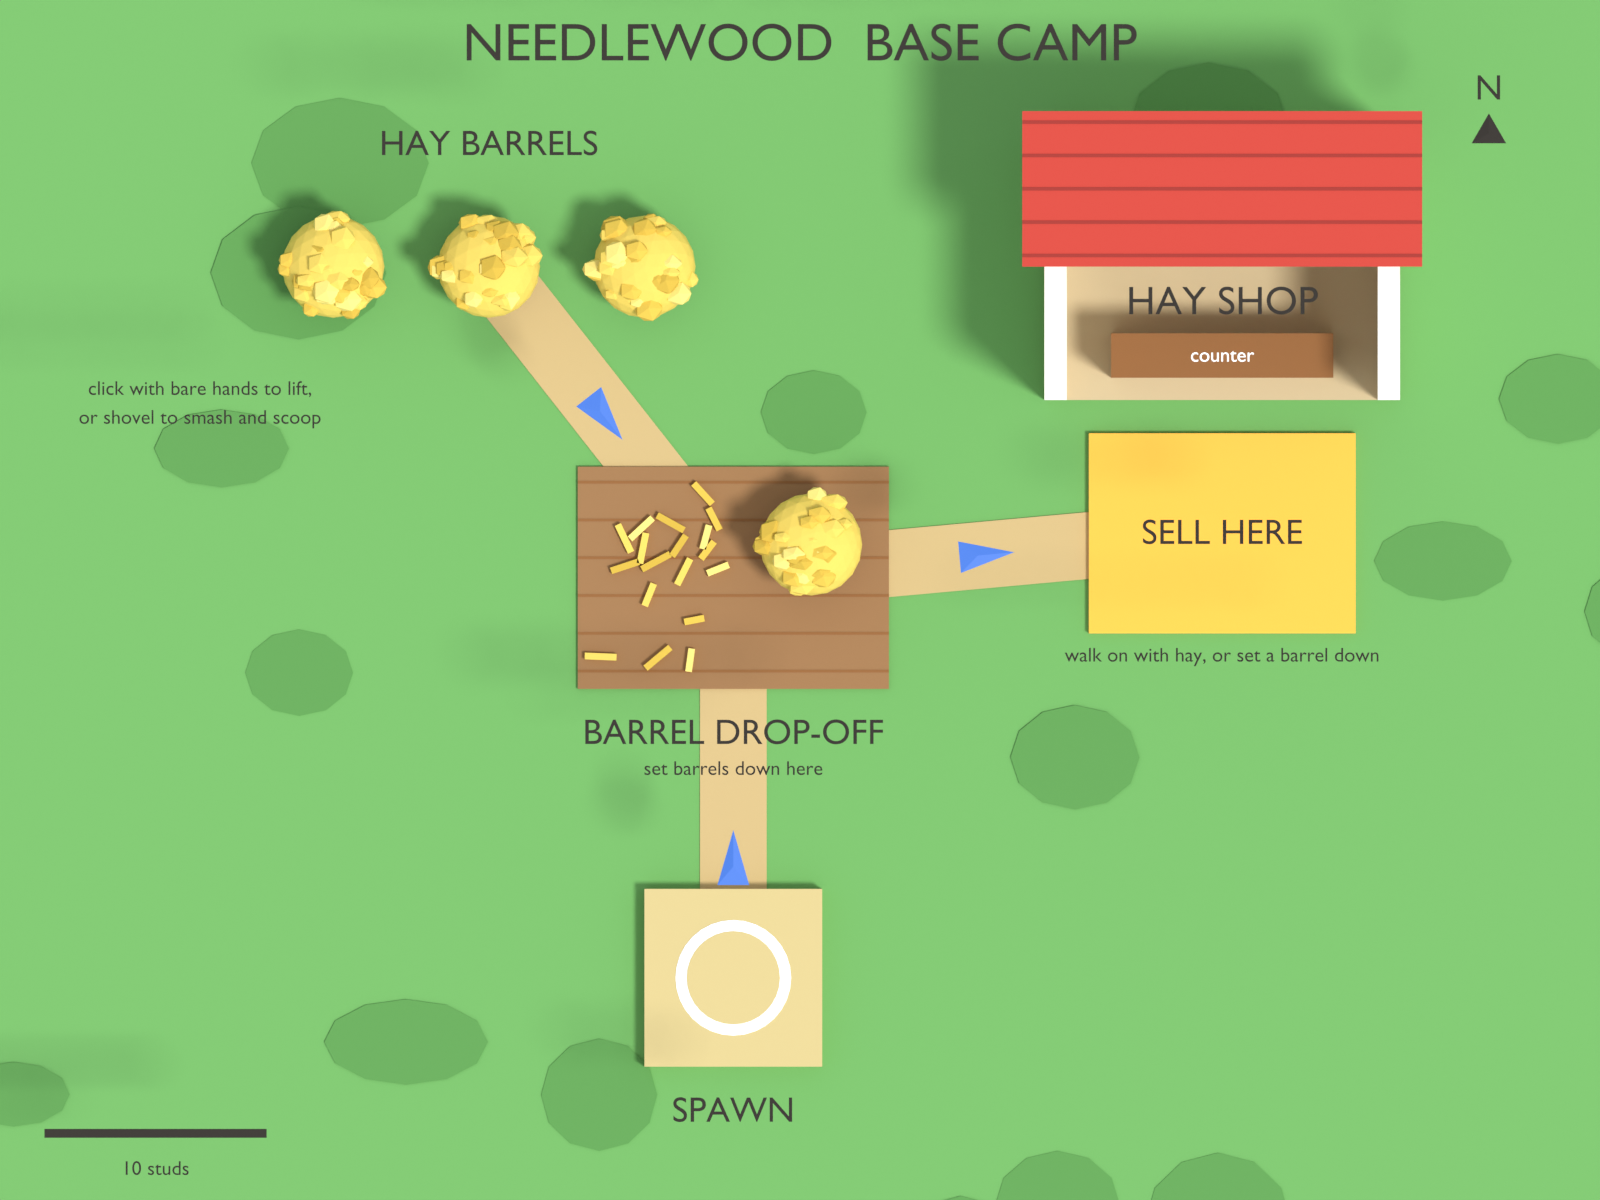
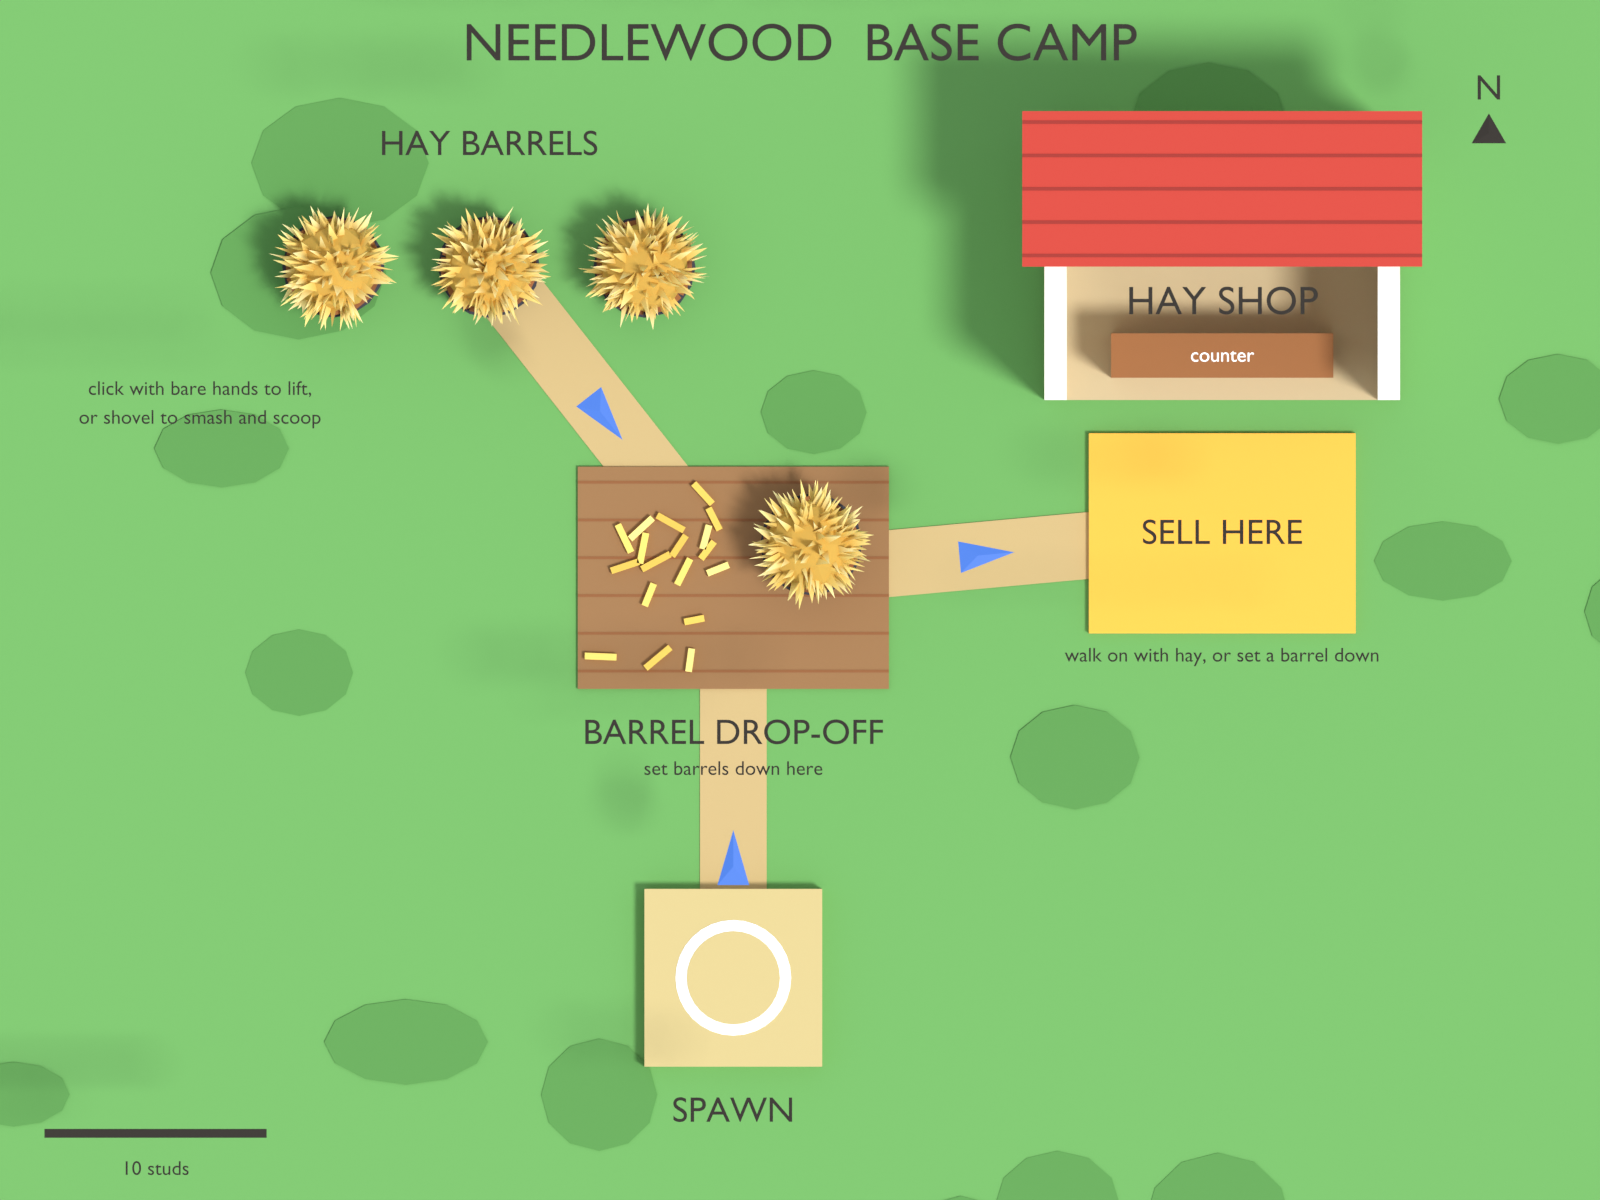
Mockups in the barrel's low-poly style; add docs/STYLE.md
Spiky vertex-colored straw clumps with dark roots and light tips, stave tubs
with varied plank tones and iron bands, shared palette in mockups/mock.py.

Claude-Session: https://claude.ai/code/session_01EoRY5A5GgDCDJNNukCEUDX

Changed region(s): [[0.1562, 0.1542, 0.4375, 0.2775], [0.4688, 0.4008, 0.5625, 0.4933]]

diff --git a/blender/mockups/mock.py b/blender/mockups/mock.py
@@ -88,41 +88,119 @@ def label(text, loc, size, material, rot=(0, 0, 0), align="CENTER", bold=True):
     return o
 
 
-def hay_heap(name, center, radius, height, colors, tufts=60, seed=1, straws=40):
-    """Lumpy hay mound: a squashed blob plus tufts and loose straws on top."""
+# House palette (sRGB 0-255), shared with blender/props/hay_barrel.py. See style/STYLE.md.
+HAY_PALETTE = {
+    "root": (199, 158, 69),
+    "mids": [(245, 214, 107), (235, 196, 87), (252, 227, 133), (224, 184, 79)],
+    "tip": (255, 242, 179),
+}
+WOOD_TONES = [(140, 87, 46), (153, 97, 51), (128, 77, 41)]
+WOOD_INSIDE = (77, 46, 26)
+IRON = (61, 61, 69)
+
+
+def palette(mids, root=None, tip=None):
+    """Hay palette from a few mid shades: darker roots, lighter tips."""
+    root = root or tuple(int(c * 0.78) for c in mids[0])
+    tip = tip or tuple(int(c + (255 - c) * 0.45) for c in mids[-1])
+    return {"root": root, "mids": list(mids), "tip": tip}
+
+
+_vcol = None
+
+
+def vcol_mat():
+    """Matte material that takes its color from the mesh's 'Col' color attribute."""
+    global _vcol
+    if _vcol:
+        return _vcol
+    m = bpy.data.materials.new("vertex_color")
+    m.use_nodes = True
+    nt = m.node_tree
+    bsdf = nt.nodes.get("Principled BSDF")
+    bsdf.inputs["Roughness"].default_value = 0.9
+    attr = nt.nodes.new("ShaderNodeVertexColor")
+    attr.layer_name = "Col"
+    nt.links.new(attr.outputs["Color"], bsdf.inputs["Base Color"])
+    _vcol = m
+    return m
+
+
+def spikes(name, items):
+    """One mesh of straw spikes. items: (base, direction, length, radius, root_rgb, tip_rgb, twist)."""
+    import bmesh
+    from mathutils import Vector
+    bm = bmesh.new()
+    col = bm.loops.layers.float_color.new("Col")
+    for base, direction, length, radius, root, tip, twist in items:
+        d = Vector(direction).normalized()
+        side = d.orthogonal().normalized()
+        side.rotate(__import__("mathutils").Quaternion(d, twist))
+        other = d.cross(side)
+        b = Vector(base)
+        ring = [bm.verts.new(b + (side * math.cos(a) + other * math.sin(a) * 0.45) * radius)
+                for a in (0, math.tau / 3, 2 * math.tau / 3)]
+        apex = bm.verts.new(b + d * length)
+        rc, tc = (*rgb(*root), 1.0), (*rgb(*tip), 1.0)
+        for i in range(3):
+            f = bm.faces.new((ring[i], ring[(i + 1) % 3], apex))
+            for loop in f.loops:
+                loop[col] = tc if loop.vert is apex else rc
+    mesh = bpy.data.meshes.new(name)
+    bm.to_mesh(mesh)
+    bm.free()
+    o = bpy.data.objects.new(name, mesh)
+    o.data.materials.append(vcol_mat())
+    bpy.context.collection.objects.link(o)
+    return o
+
+
+def hay_heap(name, center, radius, height, pal=None, tufts=160, seed=1, emit=0.0):
+    """Spiky low-poly hay mound in the barrel's style: a dark-rooted core covered in
+    straw spikes that run from a darker root to a light tip."""
     import random
     rng = random.Random(seed)
-    objs = []
+    pal = pal or HAY_PALETTE
     cx, cy, cz = center
-    objs.append(sphere(name + "_core", radius, (cx, cy, cz), colors[0], scale=(1, 1, height / radius), subdiv=3))
+    core = sphere(name + "_core", radius * 0.92, (cx, cy, cz),
+                  mat(name + "_root", rgb(*pal["root"]), 0.95, emit=emit),
+                  scale=(1, 1, height / radius * 0.92), subdiv=2)
+    items = []
     for i in range(tufts):
+        # Point on the upper part of the mound, pointing outward and a bit up.
         a = rng.uniform(0, math.tau)
-        d = math.sqrt(rng.random()) * radius * 0.95
-        h = height * (1 - (d / radius) ** 2) ** 0.5
-        r = rng.uniform(0.18, 0.32) * radius
-        objs.append(sphere(f"{name}_tuft{i}", r,
-                           (cx + math.cos(a) * d, cy + math.sin(a) * d, cz + h * rng.uniform(0.75, 1.0)),
-                           colors[i % len(colors)], scale=(1, rng.uniform(0.6, 1), rng.uniform(0.5, 0.8)),
-                           subdiv=1))
-    for i in range(straws):
-        a = rng.uniform(0, math.tau)
-        d = math.sqrt(rng.random()) * radius
-        h = height * (1 - min(d / radius, 1) ** 2) ** 0.5
-        length = rng.uniform(0.35, 0.7) * radius
-        o = cylinder(f"{name}_straw{i}", radius * 0.025, length,
-                     (cx + math.cos(a) * d, cy + math.sin(a) * d, cz + h * 0.9),
-                     colors[(i + 1) % len(colors)], verts=5,
-                     rot=(rng.uniform(0.6, 1.4), 0, a))
-        objs.append(o)
-    return objs
+        el = math.asin(rng.uniform(-0.15, 1.0))
+        nx, ny, nz = math.cos(el) * math.cos(a), math.cos(el) * math.sin(a), math.sin(el)
+        base = (cx + nx * radius * 0.8, cy + ny * radius * 0.8, cz + nz * height * 0.8)
+        direction = (nx + rng.uniform(-0.35, 0.35), ny + rng.uniform(-0.35, 0.35),
+                     nz * (height / radius) + rng.uniform(0.0, 0.5))
+        mid = pal["mids"][i % len(pal["mids"])]
+        tip = tuple(int((m + t) / 2) for m, t in zip(mid, pal["tip"])) if i % 3 else pal["tip"]
+        root = tuple(int((m + r) / 2) for m, r in zip(mid, pal["root"]))
+        items.append((base, direction, rng.uniform(0.35, 0.6) * radius, rng.uniform(0.09, 0.16) * radius,
+                      root, tip, rng.uniform(0, math.tau)))
+    return [core, spikes(name + "_straw", items)]
 
 
-def tub(name, center, radius, height, wood, hoop):
-    """Short wooden tub with two metal hoops, like the game's hay barrel."""
+def tub(name, center, radius, height, staves=14, seed=0):
+    """Wooden stave tub with two chunky iron bands, like the game's hay barrel."""
+    import random
+    rng = random.Random(seed)
     cx, cy, cz = center
-    objs = [cylinder(name + "_body", radius, height, (cx, cy, cz + height / 2), wood, verts=16)]
-    for h in (0.2, 0.8):
-        objs.append(cylinder(name + "_hoop", radius * 1.04, height * 0.1, (cx, cy, cz + height * h), hoop, verts=16))
+    objs = []
+    width = math.tau * radius / staves * 0.94
+    for i in range(staves):
+        a = i * math.tau / staves
+        tone = WOOD_TONES[rng.randrange(len(WOOD_TONES))]
+        o = box(f"{name}_stave{i}", (width, height * rng.uniform(0.98, 1.03), radius * 0.14),
+                (cx + math.cos(a) * radius, cy + math.sin(a) * radius, cz + height / 2),
+                mat("wood" + str(tone), rgb(*tone), 0.85), rot=(0, 0, a + math.pi / 2))
+        objs.append(o)
+    objs.append(cylinder(name + "_inside", radius * 0.95, height * 0.96, (cx, cy, cz + height / 2),
+                         mat("wood_inside", rgb(*WOOD_INSIDE), 0.9), verts=16))
+    iron = mat("iron", rgb(*IRON), 0.45, 0.85)
+    for h in (0.18, 0.82):
+        objs.append(cylinder(name + "_band", radius * 1.15, height * 0.12, (cx, cy, cz + height * h), iron, verts=16))
     return objs
 
 

diff --git a/blender/mockups/map.py b/blender/mockups/map.py
@@ -27,12 +27,11 @@ PLANKS = mock.mat("planks", rgb(150, 110, 70), 0.9)
 SHOP_FLOOR = mock.mat("shop_floor", rgb(200, 180, 140), 0.9)
 WALL = mock.mat("wall", rgb(244, 239, 224), 0.7)
 ROOF = mock.mat("roof", rgb(192, 57, 43), 0.8)
-COUNTER = mock.mat("counter", rgb(139, 90, 43), 0.8)
+COUNTER = mock.mat("counter", rgb(*mock.WOOD_TONES[1]), 0.8)
 SELL = mock.mat("sell", rgb(240, 173, 46), 0.4, emit=0.15)
-WOOD = mock.mat("wood", rgb(139, 90, 43), 0.8)
+WOOD = mock.mat("wood", rgb(*mock.WOOD_TONES[0]), 0.8)
 HOOP = mock.mat("hoop", rgb(70, 70, 76), 0.4, 0.8)
-HAY = [mock.mat(f"hay{i}", rgb(*c), 0.9) for i, c in enumerate(
-    [(232, 201, 90), (220, 184, 70), (244, 218, 120), (205, 170, 60)])]
+HAY = [mock.mat(f"hay{i}", rgb(*c), 0.9) for i, c in enumerate(mock.HAY_PALETTE["mids"])]
 INK = mock.mat("ink", rgb(40, 34, 28), 0.9)
 WHITE = mock.mat("white", rgb(255, 255, 255), 0.9)
 ARROW = mock.mat("arrow", rgb(60, 110, 200), 0.6)
@@ -65,15 +64,15 @@ inner = mock.cylinder("spawn_ring_in", 2.1, 1.1, rbx(0, 14, 0.5), SPAWN, verts=3
 # Three hay barrels in a row at z = -18.
 for i in range(3):
     x = -18 + i * 7
-    mock.tub(f"barrel{i}", rbx(x, -18, 0), 2.0, 2.4, WOOD, HOOP)
-    mock.hay_heap(f"barrelhay{i}", rbx(x, -18, 2.4), 2.3, 1.8, HAY, tufts=30, seed=i, straws=0)
+    mock.tub(f"barrel{i}", rbx(x, -18, 0), 2.0, 2.4, seed=i)
+    mock.hay_heap(f"barrelhay{i}", rbx(x, -18, 2.4), 2.2, 1.9, seed=i)
 
 # Barrel drop-off (14 x 10 at 0, -4) with plank lines and one set-down barrel.
 mock.box("dropoff", (14, 0.2, 10), rbx(0, -4, 0.1), PLANKS)
 for k in range(6):
     mock.box("plankline", (14, 0.22, 0.12), rbx(0, -8.3 + k * 1.7, 0.11), WOOD)
-mock.tub("dropbarrel", rbx(3.5, -5.5, 0.2), 2.0, 2.4, WOOD, HOOP)
-mock.hay_heap("drophay", rbx(3.5, -5.5, 2.6), 2.3, 1.6, HAY, tufts=25, seed=9, straws=0)
+mock.tub("dropbarrel", rbx(3.5, -5.5, 0.2), 2.0, 2.4, seed=5)
+mock.hay_heap("drophay", rbx(3.5, -5.5, 2.6), 2.2, 1.7, seed=9)
 for i in range(18):  # loose hay pieces from a smashed barrel
     x, z = rng.uniform(-6, 0), rng.uniform(-8, 0)
     o = mock.box(f"piece{i}", (rng.uniform(0.9, 1.5), 0.3, 0.3), rbx(x, z, 0.35), HAY[i % 4])

diff --git a/blender/mockups/hay_types.py b/blender/mockups/hay_types.py
@@ -20,7 +20,7 @@ bpy.ops.wm.read_factory_settings(use_empty=True)
 
 # name, needle, sorted value, hay colors, needle color, needle glow, extra
 HAY_TYPES = [
-    ("Meadow", "Steel", 100, [(232, 201, 90), (220, 184, 70), (244, 218, 120)], (170, 175, 182), 0, None),
+    ("Meadow", "Steel", 100, None, (170, 175, 182), 0, None),
     ("Pine Forest", "Pine", 110, [(196, 186, 92), (170, 160, 78), (120, 140, 70)], (46, 100, 52), 0, "pinecone"),
     ("Desert", "Sand", 140, [(236, 214, 160), (222, 196, 136), (246, 230, 186)], (214, 170, 96), 0, None),
     ("Snow Peak", "Ice", 160, [(226, 214, 168), (210, 200, 160), (245, 248, 252)], (150, 210, 245), 1.5, "snow"),
@@ -32,8 +32,6 @@ HAY_TYPES = [
     ("Star Hay", "Cosmic", 5000, [(48, 40, 110), (70, 50, 140), (30, 28, 80)], (255, 230, 140), 6.0, "stars"),
 ]
 
-WOOD = mock.mat("wood", rgb(139, 90, 43), 0.8)
-HOOP = mock.mat("hoop", rgb(70, 70, 76), 0.4, 0.8)
 FLOOR = mock.mat("floor", rgb(214, 206, 188), 1.0)
 TILE = mock.mat("tile", rgb(238, 232, 218), 0.9)
 INK = mock.mat("ink", rgb(40, 34, 28), 0.9)
@@ -55,11 +53,11 @@ for idx, (name, needle_name, value, cols, ncol, glow, extra) in enumerate(HAY_TY
     cx = (col - 2) * SPACING_X
     cy = row * SPACING_Y
     rng = random.Random(idx + 11)
-    hay = [mock.mat(f"{name}{i}", rgb(*c), 0.9, emit=(0.4 if extra == "stars" else 0.0)) for i, c in enumerate(cols)]
+    pal = mock.HAY_PALETTE if cols is None else mock.palette(cols)
 
     mock.box("tile", (7.6, 0.2, 8.6), (cx, cy - 0.6, 0.1), TILE)
-    mock.tub(name + "_tub", (cx, cy, 0.2), 1.9, 2.2, WOOD, HOOP)
-    mock.hay_heap(name, (cx, cy, 2.4), 2.15, 1.7, hay, tufts=40, seed=idx, straws=30)
+    mock.tub(name + "_tub", (cx, cy, 0.2), 1.9, 2.2, seed=idx)
+    mock.hay_heap(name, (cx, cy, 2.4), 2.05, 1.8, pal, seed=idx, emit=(0.4 if extra == "stars" else 0.0))
     for k in range(3):
         a = rng.uniform(-2.2, -0.9)
         needle(cx + math.cos(a) * 1.4, cy + math.sin(a) * 1.1, 3.3 + rng.uniform(-0.2, 0.4), ncol, glow, rng)

diff --git a/blender/mockups/tools.py b/blender/mockups/tools.py
@@ -18,17 +18,15 @@ from mock import rgb  # noqa: E402
 
 bpy.ops.wm.read_factory_settings(use_empty=True)
 
-WOOD = mock.mat("wood", rgb(139, 90, 43), 0.7)
+WOOD = mock.mat("wood", rgb(*mock.WOOD_TONES[1]), 0.7)
 STEEL = mock.mat("steel", rgb(150, 158, 166), 0.3, 0.9)
-HOOP = mock.mat("hoop", rgb(70, 70, 76), 0.4, 0.8)
 SKIN = mock.mat("skin", rgb(234, 184, 146), 0.6)
 SLEEVE = mock.mat("sleeve", rgb(52, 118, 196), 0.7)
 FLOOR = mock.mat("floor", rgb(106, 166, 90), 1.0)
 PLINTH = mock.mat("plinth", rgb(225, 215, 195), 0.8)
 INK = mock.mat("ink", rgb(40, 34, 28), 0.9)
 SUB = mock.mat("sub", rgb(90, 80, 70), 0.9)
-HAY = [mock.mat(f"hay{i}", rgb(*c), 0.9) for i, c in enumerate(
-    [(232, 201, 90), (220, 184, 70), (244, 218, 120), (205, 170, 60)])]
+HAY = [mock.mat(f"hay{i}", rgb(*c), 0.9) for i, c in enumerate(mock.HAY_PALETTE["mids"])]
 rng = random.Random(4)
 
 mock.box("floor", (80, 1, 40), (0, 0, -0.5), FLOOR)
@@ -56,8 +54,8 @@ def titles(x, name, lines):
 # Bare hands: two blocky arms gripping a whole hay barrel.
 X = -10
 plinth(X)
-mock.tub("barrel", (X, 0, 0.6), 1.9, 2.4, WOOD, HOOP)
-mock.hay_heap("barrelhay", (X, 0, 3.0), 2.1, 1.6, HAY, tufts=35, seed=2, straws=25)
+mock.tub("barrel", (X, 0, 0.6), 1.9, 2.4, seed=3)
+mock.hay_heap("barrelhay", (X, 0, 3.0), 2.0, 1.8, seed=2)
 for side in (-1, 1):
     arm = mock.box("arm", (1, 2, 1), (X + side * 2.6, -0.2, 3.2), SLEEVE, rot=(0, side * 0.35, 0))
     hand = mock.box("hand", (1, 0.9, 1), (X + side * 2.25, -0.2, 2.0), SKIN, rot=(0, side * 0.35, 0))

diff --git a/docs/STYLE.md b/docs/STYLE.md
@@ -1,0 +1,100 @@
+# Lumber / Needlewood art style
+
+One style for everything in the game: props, tools, hay, world parts, UI and mockups.
+The reference model is the hay barrel in `blender/props/hay_barrel.py`
+(preview: `/mnt/project-files/blender/hay_barrel.png`). The mockup scripts in
+`blender/mockups/` follow this file, with shared colors and builders in `mockups/mock.py`.
+
+## The style in one line
+
+**Stylized low-poly farm.** Flat-shaded facets, no textures, color painted per vertex,
+darker at the roots and edges and lighter at the tips. Glow only on rare items.
+
+## Shapes
+
+- Hard, faceted, flat-shaded surfaces. No smooth shading, no bevels, no texture detail.
+- Straw and hay: layered clumps of thin spikes (3 to 4 sided) pointing out and up
+  from a darker core. Never smooth blobs. Loose straws stick out past the outline.
+- Wood: separate planks or staves with small gaps, each plank a slightly different tone.
+- Metal: chunky bands and plates, thicker than real life, so they read from far away.
+- Chunky proportions: handles about 0.4 studs thick, nothing thinner than 0.1 studs.
+- Characters and hands use Roblox R6 blocks (arm 1 x 2 x 1 studs).
+- Cylinders: 14 to 16 sides for barrels and tubs, 24 for pads, 3 to 6 for straws and needles.
+
+## Color (per-vertex, in the .glb)
+
+Each mesh carries its color as a vertex color attribute, not as textures.
+Roots, undersides and edges get the darkest shade, tips and top faces the lightest.
+
+| Role | Hex | Notes |
+|---|---|---|
+| Hay mids | #F5D66B #EBC457 #FCE385 #E0B84F | mix across clumps |
+| Hay root / core | #C79E45 | base of every straw and the core |
+| Hay tip | #FFF2B3 | ends of the straws |
+| Wood planks | #8C572E #996133 #804D29 | vary per plank |
+| Wood inside / shadow | #4D2E1A | inside of barrels, gaps |
+| Iron | #3D3D45 | bands, hoops, dark metal |
+| Steel | #969EA6 | shovel blade, rake teeth (Roblox 150, 158, 166) |
+| Grass | #6AA65A, patches #58914A | ground |
+| Dirt path | #C4AA76 | paths |
+| Spawn / shop floor | #C8B478 / #C8B48C | |
+| Wall cream | #F4EFE0 | building walls |
+| Barn red | #C0392B | roofs |
+| Sell orange | #F0AD2E | sell pad, money UI |
+| Ink | #28221C | text on light backgrounds |
+| UI blue | #3C6EC8 | arrows, hints; player shirt #3476C4 |
+
+### Hay types
+
+One hay per map, matching `src/shared/Config/Needles.luau` (see `blender/mockups/hay_types.py`).
+Every type keeps the same spiky clump shape and only swaps its 3 mid shades;
+the root is 78% of the first mid and the tip is the last mid blended 45% toward white
+(`mock.palette()`). Meadow uses the exact barrel colors above.
+
+| Map | Mids | Extra |
+|---|---|---|
+| Meadow | barrel hay | none |
+| Pine Forest | #C4BA5C #AAA04E #788C46 | pine cones |
+| Desert | #ECD6A0 #DEC488 #F6E6BA | none |
+| Snow Peak | #E2D6A8 #D2C8A0 #F5F8FC | snow cap |
+| Swamp | #808040 #686C38 #5C5030 | moss clumps |
+| Volcano | #483830 #342C28 #60402C | glowing embers |
+| Cave | #96928C #7C7A78 #AAA092 | purple crystals |
+| Sky Island | #ECF0FA #D6E0F4 #F6ECD2 | cloud puffs |
+| Haunted Grove | #78688C #605474 #8C8096 | green wisps |
+| Star Hay | #30286E #46328C #1C1C50 | star sparkles |
+
+## Materials
+
+- Blender: one matte Principled BSDF driven by the vertex color (roughness about 0.9).
+  Metallic only on steel and iron.
+- Roblox: SmoothPlastic by default, Wood / WoodPlanks for wood, Metal for steel and iron,
+  Grass for ground, Slate for roofs. Neon only for pads and glowing rare items.
+- Glow (emission) signals rarity. Common hay never glows; mid maps get a little (ice, geode),
+  the top maps get the most (embers, wisps, stars).
+
+## Scale and budget
+
+- Model in studs (1 Blender unit = 1 stud) for new props. The barrel was built in meters
+  (1 stud = 0.28 m); either is fine as long as the import scale is noted.
+- Reference sizes: player about 5 studs tall, hay barrel about 4 studs, tools 6 to 8 studs,
+  loose hay piece 0.9 to 1.5 x 0.3 x 0.3 studs.
+- About 6,000 triangles per hero prop (the barrel), under 1,000 for anything spawned
+  many times (hay pieces, needles). Separate meshes for parts the game treats separately.
+
+## Renders and mockups
+
+- Cycles CPU, one sun plus a soft light sky, Standard view transform.
+- Maps are top-down orthographic; prop sheets are three-quarter views on cream plinths or tiles.
+- Labels: dark ink text, titles in capitals, one or two short lines underneath.
+
+## UI and text
+
+- Gotham Bold in game (Blender's default font in renders). White text with a dark stroke over
+  the world, ink text on light panels.
+- Short signs in capitals ("SELL HERE", "BARREL DROP-OFF"); hints in sentence case.
+
+## Not yet matching
+
+- Loose hay pieces in `src/server/Services/Hay.luau` use older golds (232, 201, 90 and similar);
+  they should move to the hay mids above when that file is next edited.

diff --git a/blender/README.md b/blender/README.md
@@ -65,7 +65,7 @@ per-mesh triangle limit (the hay barrel is ~3.6k triangles total).
 
 ## Mockups
 
-`mockups/` renders preview sheets (no exports) in studs, using the layout
+`mockups/` follows the house style in `docs/STYLE.md` and renders preview sheets (no exports) in studs, using the layout
 and part sizes from the game code:
 
 ```
